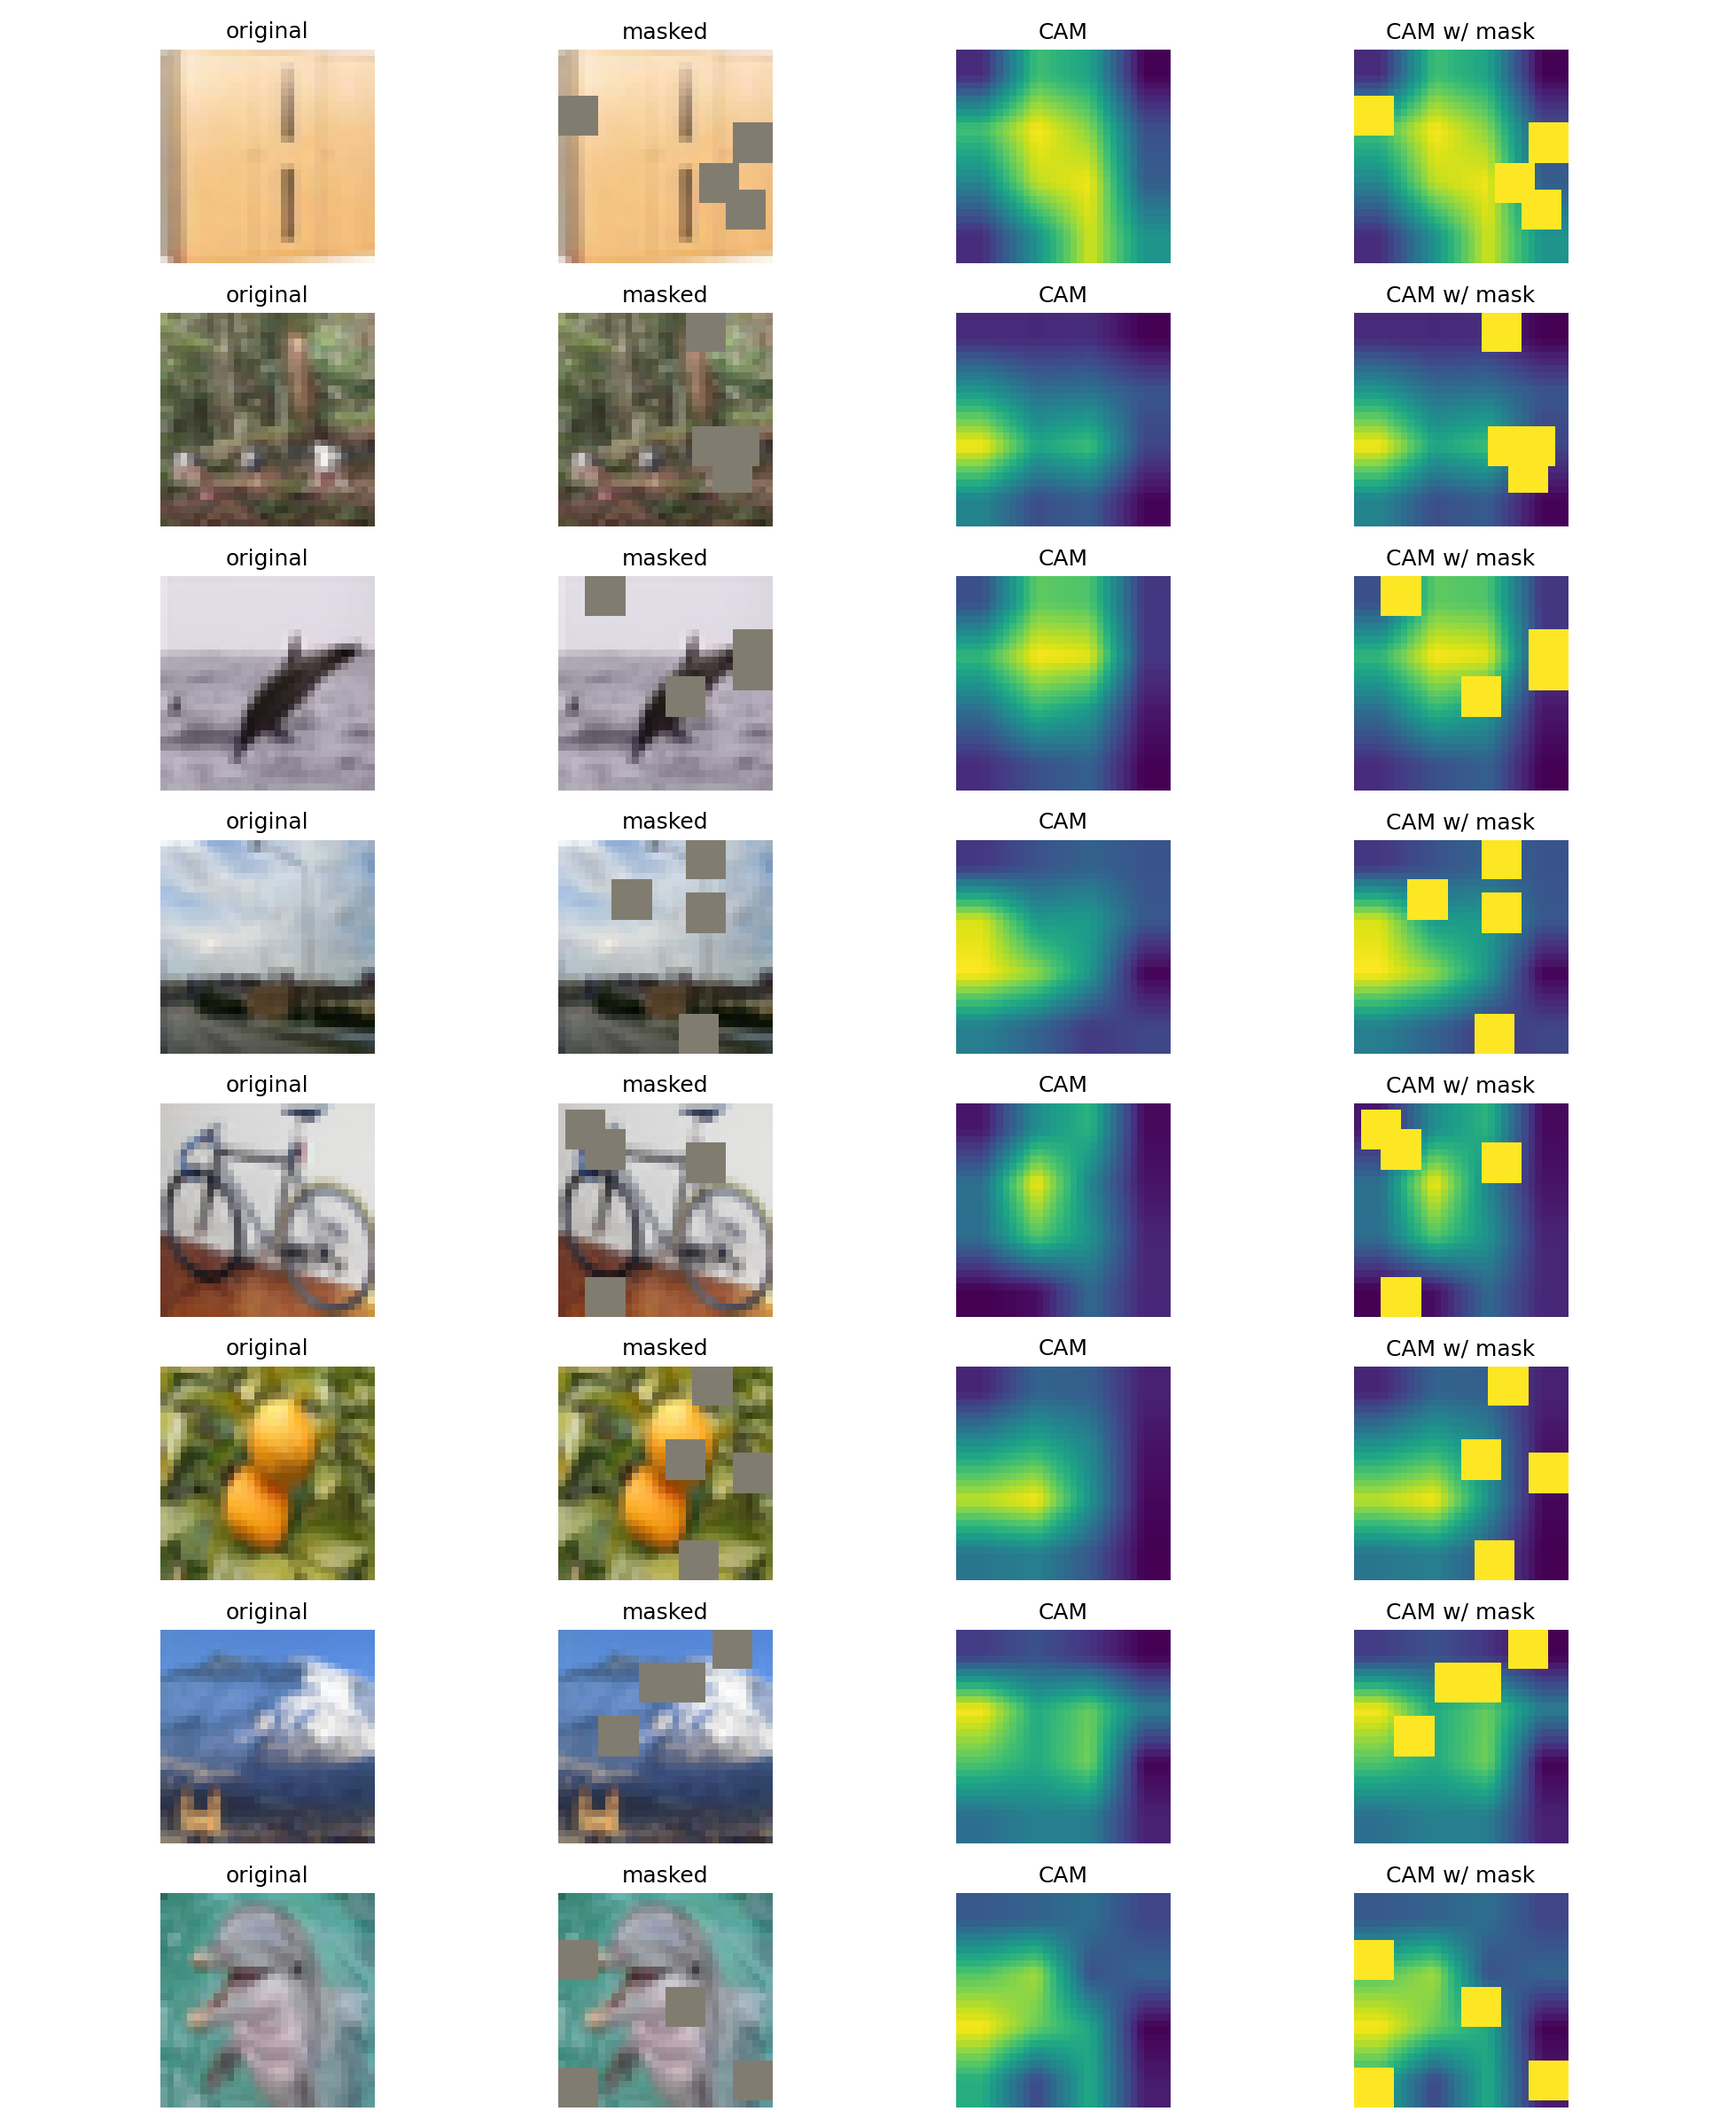
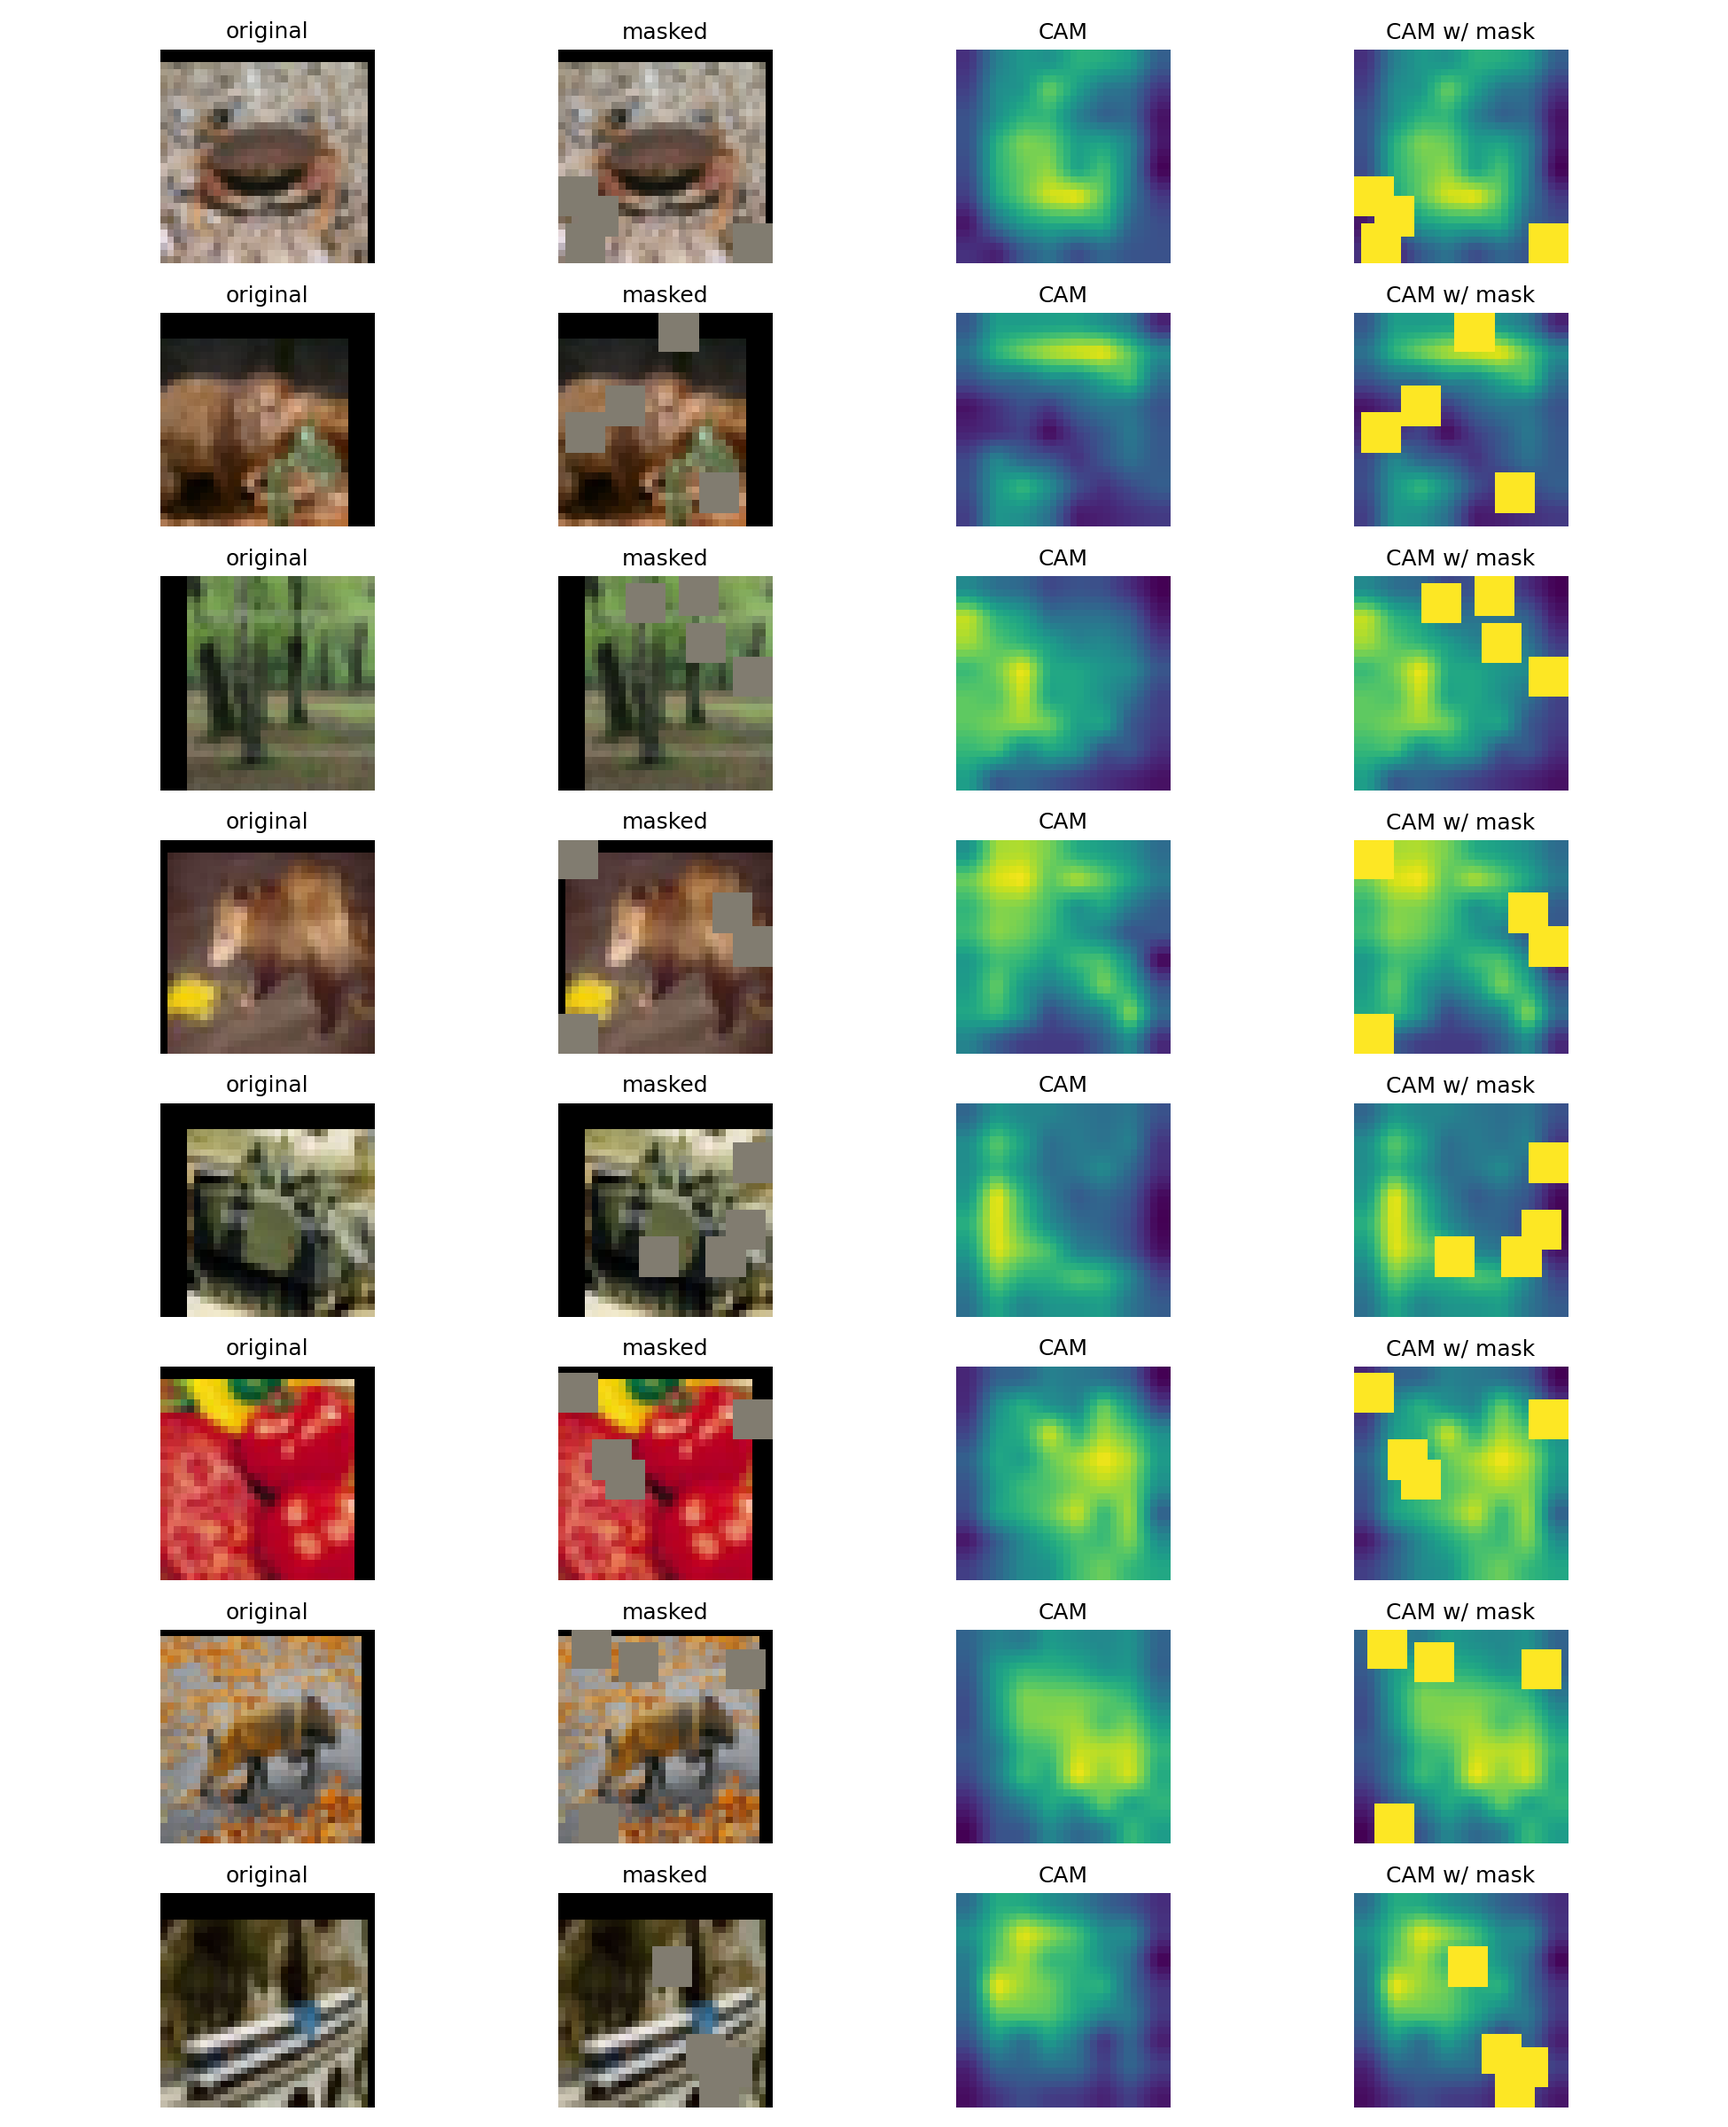
optimizations made in CAM masking, graphics updated

diff --git a/cam_masking.py b/cam_masking.py
@@ -23,10 +23,11 @@ class GradCAM:
         cam = cam / (cam.amax(dim=(2,3), keepdim=True) + 1e-6)
         return cam
 
-    def cam(self, x, y):
+    def cam(self, x):
         """
         Returns CAM in input resolution: [B, 1, H_in, W_in]
         Uses grad w.r.t activations via torch.autograd.grad (no param .grad accumulation).
+        Computes CAM for the predicted class.
         """
         self.model.zero_grad(set_to_none=True)
         logits = self.model(x)  # forward hook saves activations
@@ -34,7 +35,7 @@ class GradCAM:
         if acts is None:
             raise RuntimeError("GradCAM activations are None. Hook not firing?")
 
-        # class score for ground-truth labels
+        # class score for predicted labels
         idx = torch.arange(x.size(0), device=x.device)
         pred = logits.argmax(dim=1)
         score = logits[idx, pred]  
@@ -48,9 +49,6 @@ class GradCAM:
         cam = F.interpolate(cam, size=x.shape[-2:], mode="bilinear", align_corners=False)  # to input size
         return cam
 
-def _rand_int(low, high, device):
-    return torch.randint(low, high, (1,), device=device).item()
-
 def apply_random_cutout(x, area_frac=0.2, block=8, fill=0.0):
     """
     x: [B,3,H,W] (normalized ok). Masks same number of blocks per sample to match area_frac approximately.
@@ -63,8 +61,8 @@ def apply_random_cutout(x, area_frac=0.2, block=8, fill=0.0):
 
     for b in range(B):
         for _ in range(n_blocks):
-            top = _rand_int(0, max(1, H - block + 1), x.device)
-            left = _rand_int(0, max(1, W - block + 1), x.device)
+            top = torch.randint(0, max(1, H - block + 1), (1,), device=x.device).item()
+            left = torch.randint(0, max(1, W - block + 1), (1,), device=x.device).item()
             out[b, :, top:top+block, left:left+block] = fill
     return out
 

diff --git a/graphics.py b/graphics.py
@@ -29,7 +29,7 @@ def _apply_mask(mode, x, y, model, cam_runner, area, block):
     if mode in ("cam_high", "cam_low"):
         model.eval()
         x_cam = x.detach().requires_grad_(True)
-        cam = cam_runner.cam(x_cam, y)
+        cam = cam_runner.cam(x_cam)
         cam_mode = "high" if mode == "cam_high" else "low"
         xm = apply_cam_cutout(
             x,
@@ -246,7 +246,7 @@ def main():
     model = get_model("resnet18", num_classes=100).to(device)
 
     # match your train.py layer selection (layer2 / layer3 / layer4)
-    target_module = model.layer4
+    target_module = model.layer3
     cam_runner = GradCAM(model, target_module)
 
     out_dir = "./mask_images"

diff --git a/engine.py b/engine.py
@@ -23,7 +23,7 @@ def train_one_epoch(model, loader, criterion, optimizer, scaler, device, log_eve
                     was_training = model.training
                     model.eval()
                     x_cam = x.detach().requires_grad_(True)
-                    cam = cam_runner.cam(x_cam, y) 
+                    cam = cam_runner.cam(x_cam)
                     model.train(was_training)
                     mode = "high" if ms["strategy"] == "cam_high" else "low"
                     x = apply_cam_cutout(x, cam.detach(), area_frac=ms["area"], block=ms["block"], fill=0.0, mode=mode)
